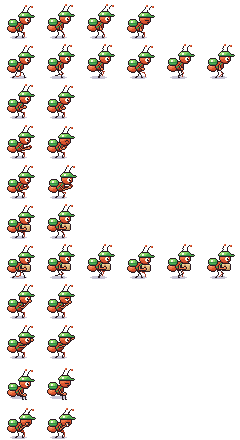
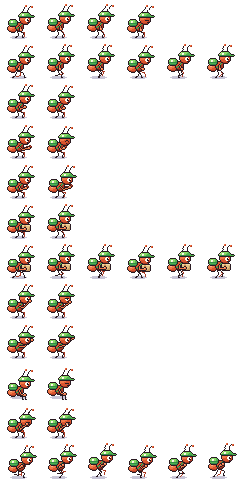
feat(game): run while Shift is held
The courier runs at 104 px/s, against 56 when walking, using a new run pose.
Shift works with the keys and with click-to-walk paths. It only applies while
the player has control, so scripted walks never run. A PlayMode test holds
Shift+D on a virtual keyboard and checks the pose and the speed.

diff --git a/game/ArtSource/chars.js b/game/ArtSource/chars.js
@@ -252,7 +252,7 @@
     if (!CAST[id].villager) s.push('talk');
     if (['nora', 'mia', 'grandkid', 'theo', 'leo', 'sam', 'mother', 'marlow', 'courier', 'helen'].includes(id)) s.push('receive');
     if (['nora', 'mia', 'grandkid', 'theo', 'leo', 'sam', 'mother', 'marlow', 'courier'].includes(id)) s.push('give');
-    if (id === 'courier') s.push('carry', 'carryWalk', 'inspect', 'wave', 'sit', 'moved');
+    if (id === 'courier') s.push('carry', 'carryWalk', 'inspect', 'wave', 'sit', 'moved', 'run');
     if (id === 'helen') s.push('sit', 'moved');
     if (id === 'marlow') s.push('wave');
     if (id === 'leo') s.push('run');
@@ -674,7 +674,7 @@
     POSES,
     poses: id => HAS[id].slice(),
     // px of ground covered per frame by walk / carryWalk / run, so feet don't skate (advance a frame every stride px)
-    stride: (id, pose) => (resolve(id, pose) === 'run' ? 4 : CAST[id].kid ? 2 : 3),
+    stride: (id, pose) => (resolve(id, pose) === 'run' ? (CAST[id].kid ? 4 : 5) : CAST[id].kid ? 2 : 3),
     frames: (id, pose) => POSES[resolve(id, pose)],
     fps: pose => FPS[pose] || 6,
     sprite: sprite40,

diff --git a/game/Assets/Tests/PlayMode/RunTest.cs b/game/Assets/Tests/PlayMode/RunTest.cs
@@ -1,0 +1,56 @@
+using System.Collections;
+using NUnit.Framework;
+using UnityEngine;
+using UnityEngine.InputSystem;
+using UnityEngine.InputSystem.LowLevel;
+using UnityEngine.TestTools;
+
+namespace Shop.Tests
+{
+    /// <summary>Holding Shift with a direction key runs: the run pose, at the run speed.</summary>
+    public sealed class RunTest
+    {
+        [UnityTest]
+        public IEnumerator ShiftRuns()
+        {
+            var saved = Game.SavedChapter();
+            // The editor may be unfocused while tests run; let the virtual keyboard reach the game anyway.
+            var settings = InputSystem.settings;
+            var (editor, background) = (settings.editorInputBehaviorInPlayMode, settings.backgroundBehavior);
+            settings.editorInputBehaviorInPlayMode = InputSettings.EditorInputBehaviorInPlayMode.AllDeviceInputAlwaysGoesToGameView;
+            settings.backgroundBehavior = InputSettings.BackgroundBehavior.IgnoreFocus;
+            var keyboard = InputSystem.AddDevice<Keyboard>();
+            Main.Auto = true;
+            var main = new GameObject("Main").AddComponent<Main>();
+            try
+            {
+                var end = Time.realtimeSinceStartup + 60f;
+                while (!(main.Place && main.Place.Def.Id == "world" && main.Place.Controls && !main.Talk.Open))
+                {
+                    Assert.Less(Time.realtimeSinceStartup, end, "The world never got the controls");
+                    yield return null;
+                }
+                var player = main.Place.Player;
+                InputSystem.QueueStateEvent(keyboard, new KeyboardState(Key.LeftShift, Key.D));
+                yield return null;
+                var (from, start) = (player.Feet, Time.time);
+                yield return new WaitForSeconds(0.5f);
+                var speed = (player.Feet.x - from.x) / (Time.time - start);
+
+                Assert.AreEqual("run", player.Pose);
+                Assert.Greater(speed, (Ant.Speed + Ant.RunSpeed) / 2, "Running is faster than walking");
+            }
+            finally
+            {
+                InputSystem.QueueStateEvent(keyboard, new KeyboardState());
+                Object.Destroy(main.gameObject);
+                InputSystem.RemoveDevice(keyboard);
+                settings.editorInputBehaviorInPlayMode = editor;
+                settings.backgroundBehavior = background;
+                Main.Auto = false;
+                if (saved < 0) Game.DeleteSave();
+                else Game.Save(saved);
+            }
+        }
+    }
+}

diff --git a/game/Assets/Scripts/Actors/Ant.cs b/game/Assets/Scripts/Actors/Ant.cs
@@ -12,7 +12,7 @@ namespace Shop
     public sealed class Ant : MonoBehaviour
     {
         /// <summary>Walking pace in art px per second.</summary>
-        public const float Speed = 56f;
+        public const float Speed = 56f, RunSpeed = 104f;
         static readonly string[] Walks = { "walk", "carryWalk", "run" }; // poses whose frames advance with distance, not time
         static JObject cast;
 
@@ -125,6 +125,9 @@ namespace Shop
 
         public bool Walking => path.Count > 0;
 
+        /// <summary>Walks at <see cref="RunSpeed"/> with the run pose, by keys or along a path.</summary>
+        public bool Running { get; set; }
+
         /// <summary>Walks through <paramref name="points"/>. True on arrival, false if another walk or <see cref="Stop"/> took over.</summary>
         public async Awaitable<bool> Walk(List<Vector2> points)
         {
@@ -132,7 +135,7 @@ namespace Shop
             if (points.Count == 0) return true;
             path.Clear();
             path.AddRange(points);
-            Pose = "walk";
+            Pose = Running ? "run" : "walk";
             var done = new AwaitableCompletionSource();
             waiting.Add(done);
             await done.Awaitable;
@@ -154,7 +157,7 @@ namespace Shop
             var to = Here() + motion;
             Feet = to;
             exact = to;
-            if (Array.IndexOf(Walks, pose) < 0) Pose = "walk";
+            if (Array.IndexOf(Walks, pose) < 0 || Running != (pose == "run")) Pose = Running ? "run" : "walk";
             step += motion.magnitude;
             var p = Current();
             var stride = (float)p["stride"];
@@ -177,7 +180,7 @@ namespace Shop
             if (path.Count > 0)
             {
                 var to = path[0];
-                MoveBy(Vector2.ClampMagnitude(to - Here(), Speed * Time.deltaTime));
+                MoveBy(Vector2.ClampMagnitude(to - Here(), (Running ? RunSpeed : Speed) * Time.deltaTime));
                 if (Vector2.Distance(exact, to) < 0.001f)
                 {
                     path.RemoveAt(0);

diff --git a/game/Assets/Scripts/Core/Place.cs b/game/Assets/Scripts/Core/Place.cs
@@ -106,6 +106,7 @@ namespace Shop
             if (!Player) return;
             Hover = controls ? HotspotAt(Shop.Controls.MouseWorld) : null;
             Near = controls ? Nearest() : null;
+            Player.Running = controls && input && Shop.Controls.Run;
             if (!controls || !input) return;
             if (Shop.Controls.Click || (Shop.Controls.Interact && Near != null))
             {
@@ -120,7 +121,7 @@ namespace Shop
                     Player.Stop();
                     keys = true;
                 }
-                Player.MoveBy(Walk.Slide(Player.Feet, dir * Ant.Speed * Time.deltaTime) - Player.Feet);
+                Player.MoveBy(Walk.Slide(Player.Feet, dir * (Player.Running ? Ant.RunSpeed : Ant.Speed) * Time.deltaTime) - Player.Feet);
             }
             else if (keys)
             {

diff --git a/game/Assets/Scripts/Core/Controls.cs b/game/Assets/Scripts/Core/Controls.cs
@@ -36,6 +36,8 @@ namespace Shop
         public static bool Down => Pressed(Key.S, Key.DownArrow);
         public static bool Left => Pressed(Key.A, Key.LeftArrow);
         public static bool Right => Pressed(Key.D, Key.RightArrow);
+        /// <summary>Shift held: the courier runs.</summary>
+        public static bool Run => Held(Key.LeftShift, Key.RightShift);
 
         /// <summary>The walking direction from WASD or the arrow keys, y down, at most length 1.</summary>
         public static Vector2 Move
